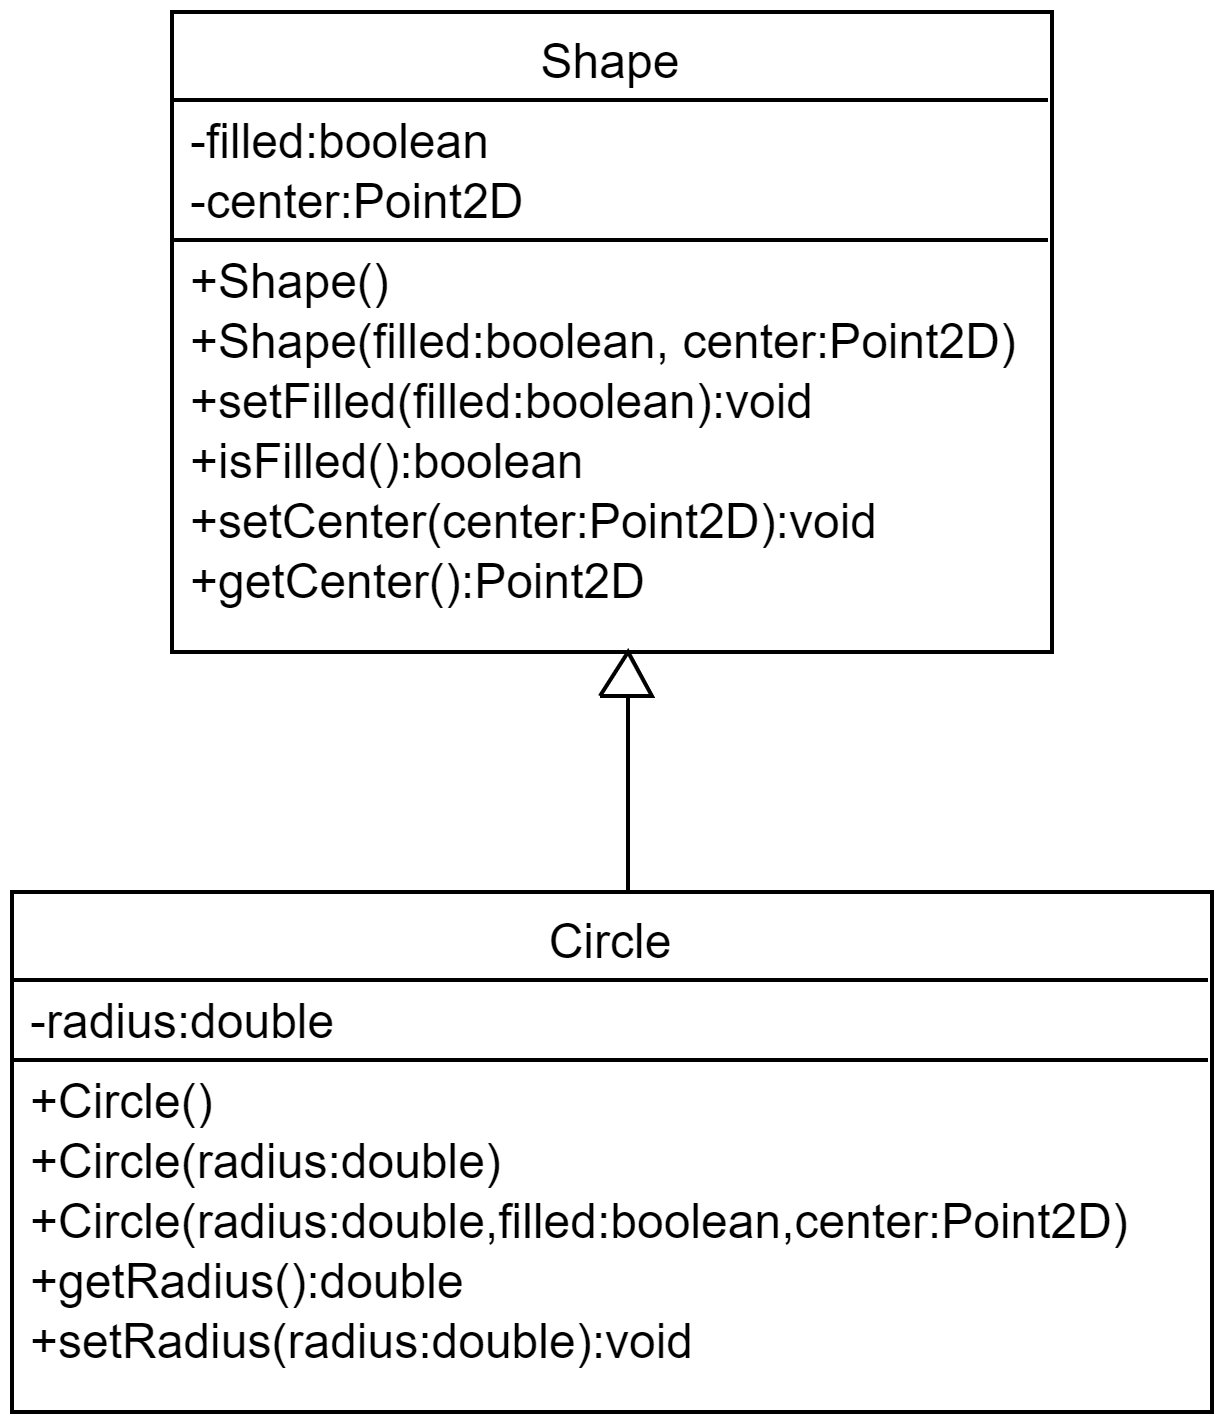
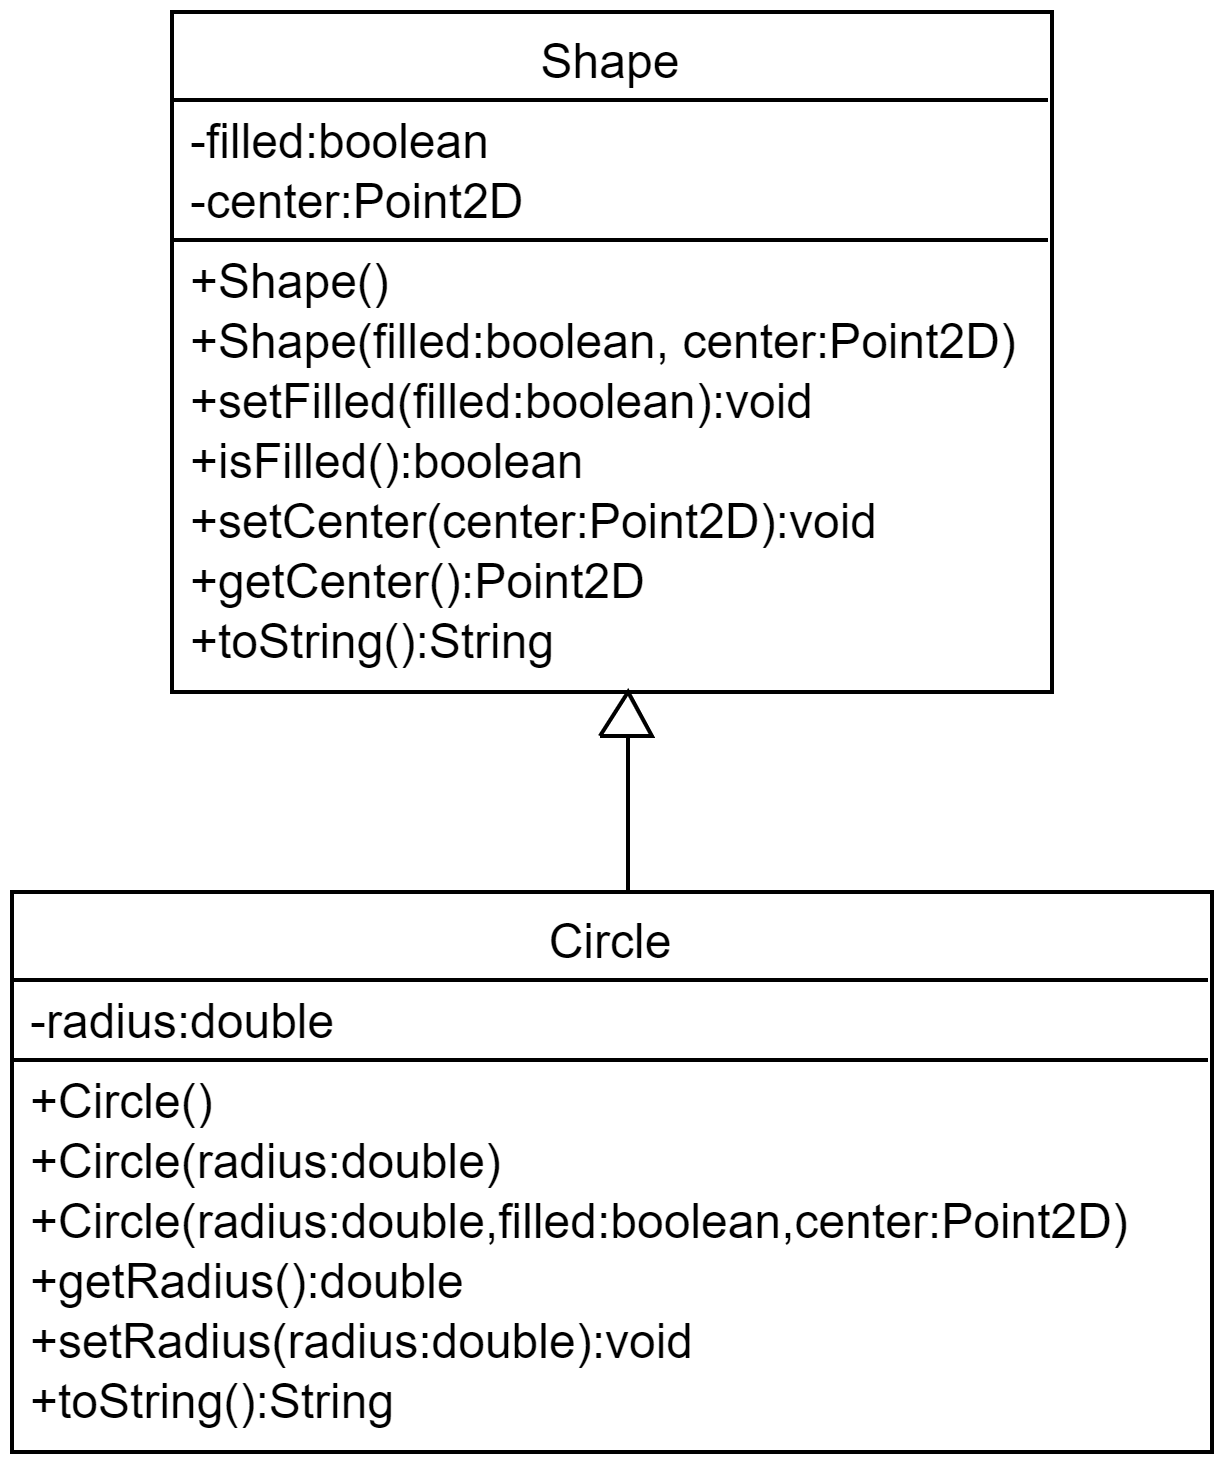
More inheritance

Changed region(s): [[0.0, 0.5887, 0.9967, 1.0], [0.1557, 0.031, 0.8721, 0.5268]]

diff --git a/src/edu/realemj/Exercises_12/Circle.java b/src/edu/realemj/Exercises_12/Circle.java
@@ -9,14 +9,15 @@ public class Circle extends Shape {
         radius = 1.0;
     }
 
-    public Circle(double radius) {
+    public Circle(double radius) {        
         this.radius = radius;
     }
 
     public Circle(double radius, boolean filled, Point2D center) {
+        super(filled, center);
         this.radius = radius;
-        setFilled(filled);
-        setCenter(center);
+        //setFilled(filled);
+        //setCenter(center);
     }
 
     public double getRadius() {
@@ -26,4 +27,11 @@ public class Circle extends Shape {
     public void setRadius(double radius) {
         this.radius = Math.max(radius, 0);
     }    
+
+    @Override
+    public String toString() {
+        String s = super.toString();
+        s += " which is a circle with radius " + radius;
+        return s;
+    }
 }

diff --git a/src/edu/realemj/Exercises_12/Shape.java b/src/edu/realemj/Exercises_12/Shape.java
@@ -27,5 +27,17 @@ public class Shape {
 
     public Point2D getCenter() {
         return new Point2D(center);
-    }    
+    }  
+    
+    public String toString() {
+        String s = "";
+        if(filled) {
+            s += "Filled ";
+        }
+        else {
+            s += "Empty ";
+        }
+        s += "shape at " + center;
+        return s;
+    }
 }

diff --git a/src/edu/realemj/Exercises_12/TestCircles.java b/src/edu/realemj/Exercises_12/TestCircles.java
@@ -6,5 +6,10 @@ public class TestCircles {
     public static void main(String [] args) {
         Circle c1 = new Circle(3.0, true, new Point2D(5,7));
         System.out.println(c1.getCenter());
+
+        Shape s1 = new Shape(true, new Point2D(8,9));
+
+        System.out.println("CIRCLE: " + c1);
+        System.out.println("SHAPE: " + s1);
     }    
 }
